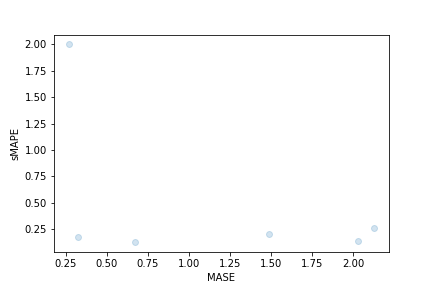
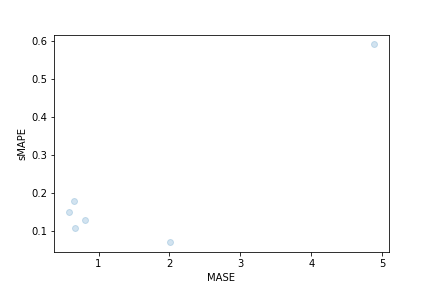
Preprocessing all variables

diff --git a/TFG_Code/src/T1_Load_Dataset.py b/TFG_Code/src/T1_Load_Dataset.py
@@ -31,15 +31,6 @@ def load_and_preprocess_dataset(freq, prediction_length):
     train_dataset.set_transform(partial(transform_start_field, freq=freq))
     test_dataset.set_transform(partial(transform_start_field, freq=freq))
 
-    # Show data
-    figure, axes = plt.subplots()
-    axes.plot(
-        test_dataset[0]["target"][-len((train_dataset[0]["target"]))-prediction_length:],
-        color="red",
-        linewidth=0.9
-    )
-    axes.plot(train_dataset[0]["target"], color="blue")
-
     # Convert the dataset into a multivariate time series
     num_of_variates = len(train_dataset)
 
@@ -70,55 +61,45 @@ def load_my_own_dataset(prediction_length):
     # Read the CSV file
     df = pd.read_csv(file_path, sep=";")
 
-    # Selección de variables relevantes
-    data = df[['datetime', 'luminosidad', 'temperatura',
-               'humedad_rel', 'temp_suelo', 'electrocond', 'var_diam']]
-
-    # Selección de variables relevantes
+    # Relevant variables selection
     data = df[['luminosidad', 'temperatura',
                'humedad_rel', 'temp_suelo', 'electrocond', 'var_diam']]
 
-    def reemplazar_valores_incorrectos(serie):
+    def replace_incorrect_values(serie, lim):
         for i in range(1, len(serie) - 1):
-            if serie[i] < 100:
+            if serie[i] < lim:
                 serie[i] = serie[i - 1]
         return serie
 
     # Aplicar la función a la columna 'var_diam'
-    data['var_diam'] = reemplazar_valores_incorrectos(data['var_diam'])
+    data['var_diam'] = replace_incorrect_values(data['var_diam'], 100)
+    data['temp_suelo'] = replace_incorrect_values(data['var_diam'], 0.6)
 
-    date_var = df[['date']]
+    # %%
+    # Data preprocessing
 
-    # Preprocesados de los datos
-    datos = data[['var_diam']]
-    ventana = 100  # Tamaño de la ventana de la media móvil
-    # Eliminamos la pendiente de nuestros datos
-    datos_sin = datos['var_diam']-datos['var_diam'].rolling(window=ventana).mean()
-    # Eliminamos los valores NaN
-    datos_sin_pendiente = datos_sin.dropna()
-    # Suavizamos la señal
-    datos_suavizados = savgol_filter(datos_sin_pendiente, 11, 2)
-    df = df[99:]
-    df['var_diam_sua_py'] = pd.Series(datos_suavizados, index=df.index)
+    # Remove trend from our data
+    for col in data.columns:
+        if col != 'var_diam':
+            data[col] = data[col] - data[col].rolling(window=100).mean()
 
-    # Selección de variables relevantes
-    data = df[['datetime', 'luminosidad', 'temperatura',
-               'humedad_rel', 'temp_suelo', 'electrocond', 'var_diam_sua_py']]
+    # Remove NaN values
+    data = data.dropna()
 
-    # Transformación de la variable 'date' en un objeto datetime
-    data['datetime'] = pd.to_datetime(data['datetime'])
-    date = data['datetime']
-    # Establecimiento de la variable 'date' como índice
-    data.set_index('datetime', inplace=True)
-    date_var = df[['date']]
+    # Smooth the signal
+    for col in data.columns:
+        if col != 'var_diam':
+            data[col] = savgol_filter(data[col], 11, 2)
 
-    # Normalización de los datos
-
+    # %%
+    # Data normalization
     scaler = MinMaxScaler()
     scaled_data = scaler.fit_transform(data)
     data[['luminosidad', 'temperatura',
-          'humedad_rel', 'temp_suelo', 'electrocond', 'var_diam_sua_py']] = scaled_data
-    # Relevant Variable Selection
+          'humedad_rel', 'temp_suelo', 'electrocond', 'var_diam']] = scaled_data
+
+    # %%
+    # Data split
     data_validation = data
     data_test = data.iloc[:-prediction_length]
     data_train = data.iloc[:-2*prediction_length]
@@ -155,5 +136,31 @@ def load_my_own_dataset(prediction_length):
     dataset_validation = Dataset.from_pandas(dataframe_validation)
     dataset_test = Dataset.from_pandas(dataframe_test)
     dataset_train = Dataset.from_pandas(dataframe_train)
+
+    # %% SHOWING DATA
+
+    test_dataset = dataset_test
+    train_dataset = dataset_train
+
+    # Show data
+    for var in range(6):
+
+        figure, axes = plt.subplots(figsize=(12, 6))
+        ejex = list(range(len(test_dataset[var]["target"])))
+        plt.setp(axes.get_xticklabels(), rotation=30, horizontalalignment='right')
+        axes.plot(ejex[-prediction_length:], test_dataset[var]
+                  ["target"][-prediction_length:], color="red")
+        axes.plot(train_dataset[var]["target"], color="blue")
+        axes.set_title(data.columns[var])  # Set title for main data plo
+
+        # ZOOM
+        # Show last values
+        figure, axes = plt.subplots()
+        ejex = list(range(len(test_dataset[var]["target"])))
+        axes.plot(ejex[-prediction_length:], test_dataset[var]
+                  ["target"][-prediction_length:], color="red")
+        axes.plot(ejex[-3*prediction_length:-prediction_length], train_dataset[var]
+                  ["target"][-2*prediction_length:], color="blue")
+        axes.set_title(data.columns[var])
 
     return dataset_validation, dataset_test, dataset_train

diff --git a/TFG_Code/Create_2023_dataset/Creating_my_dataset_2023.py b/TFG_Code/Create_2023_dataset/Creating_my_dataset_2023.py
@@ -20,47 +20,47 @@ file_path = os.path.join(current_path, file_name)
 # Read the CSV file
 df = pd.read_csv(file_path, sep=";")
 
-
-# Selección de variables relevantes
+# Relevant variables selection
 data = df[['luminosidad', 'temperatura',
            'humedad_rel', 'temp_suelo', 'electrocond', 'var_diam']]
 
 
-def reemplazar_valores_incorrectos(serie):
+def replace_incorrect_values(serie, lim):
     for i in range(1, len(serie) - 1):
-        if serie[i] < 100:
+        if serie[i] < lim:
             serie[i] = serie[i - 1]
     return serie
 
 
 # Aplicar la función a la columna 'var_diam'
-data['var_diam'] = reemplazar_valores_incorrectos(data['var_diam'])
+data['var_diam'] = replace_incorrect_values(data['var_diam'], 100)
+data['temp_suelo'] = replace_incorrect_values(data['var_diam'], 0.6)
 
 # %%
-# Preprocesados de los datos
-datos = data[['var_diam']]
-ventana = 100  # Tamaño de la ventana de la media móvil
-# Eliminamos la pendiente de nuestros datos
-datos_sin = datos['var_diam']-datos['var_diam'].rolling(window=ventana).mean()
-# Eliminamos los valores NaN
-datos_sin_pendiente = datos_sin.dropna()
-# Suavizamos la señal
-datos_suavizados = savgol_filter(datos_sin_pendiente, 11, 2)
-df = df[99:]
-df['var_diam_sua_py'] = pd.Series(datos_suavizados, index=df.index)
+# Data preprocessing
 
-# Selección de variables relevantes
-data = df[['luminosidad', 'temperatura',
-           'humedad_rel', 'temp_suelo', 'electrocond', 'var_diam_sua_py']]
+# Remove trend from our data
+for col in data.columns:
+    if col != 'var_diam':
+        data[col] = data[col] - data[col].rolling(window=100).mean()
+
+# Remove NaN values
+data = data.dropna()
+
+# Smooth the signal
+for col in data.columns:
+    if col != 'var_diam':
+        data[col] = savgol_filter(data[col], 11, 2)
 
 # %%
-# Normalización de los datos
+# Data normalization
 scaler = MinMaxScaler()
 scaled_data = scaler.fit_transform(data)
 data[['luminosidad', 'temperatura',
-      'humedad_rel', 'temp_suelo', 'electrocond', 'var_diam_sua_py']] = scaled_data
+      'humedad_rel', 'temp_suelo', 'electrocond', 'var_diam']] = scaled_data
 
-# Relevant Variable Selection
+# %%
+# Data split
 data_validation = data
 data_test = data.iloc[:-prediction_length]
 data_train = data.iloc[:-2*prediction_length]
@@ -103,35 +103,24 @@ dataset_train = Dataset.from_pandas(dataframe_train)
 
 test_dataset = dataset_test
 train_dataset = dataset_train
-# for var in range(6):
-var = 5
+
 # Show data
-figure, axes = plt.subplots()
-ejex = list(range(len(test_dataset[var]["target"])))
-axes.plot(ejex[-prediction_length:], test_dataset[var]
-          ["target"][-prediction_length:], color="red")
-axes.plot(train_dataset[var]["target"], color="blue")
+for var in range(6):
 
-# ZOOM
+    figure, axes = plt.subplots(figsize=(12, 6))
+    ejex = list(range(len(test_dataset[var]["target"])))
+    plt.setp(axes.get_xticklabels(), rotation=30, horizontalalignment='right')
+    axes.plot(ejex[-prediction_length:], test_dataset[var]
+              ["target"][-prediction_length:], color="red")
+    axes.plot(train_dataset[var]["target"], color="blue")
+    axes.set_title(data.columns[var])  # Set title for main data plo
 
-# Show last values
-figure, axes = plt.subplots()
-ejex = list(range(len(test_dataset[var]["target"])))
-# axes.plot(ejex[-prediction_length:], test_dataset[var]
-#           ["target"][-prediction_length:], color="red")
-# axes.plot(ejex[-3*prediction_length:-prediction_length], train_dataset[var]
-#           ["target"][-2*prediction_length:], color="blue")
-
-axes.plot(ejex[:prediction_length], train_dataset[var]
-          ["target"][:prediction_length:], color="blue")
-
-
-# %%
-
-figure, ax = plt.subplots(figsize=(12, 6))  # Ancho de 12 pulgadas y alto de 6 pulgadas
-vector = data1[['var_diam']]  # Corregido: quita los corchetes adicionales
-plt.ylim(129, 132)
-# Corregido: utiliza comillas simples para el nombre de la columna
-ax.set_title("df['var_diam']")
-plt.setp(ax.get_xticklabels(), rotation=30, horizontalalignment='right')
-ax.plot(vector, color="blue")
+    # ZOOM
+    # Show last values
+    figure, axes = plt.subplots()
+    ejex = list(range(len(test_dataset[var]["target"])))
+    axes.plot(ejex[-prediction_length:], test_dataset[var]
+              ["target"][-prediction_length:], color="red")
+    axes.plot(ejex[-3*prediction_length:-prediction_length], train_dataset[var]
+              ["target"][-2*prediction_length:], color="blue")
+    axes.set_title(data.columns[var])

diff --git a/TFG_Code/src/main.py b/TFG_Code/src/main.py
@@ -10,7 +10,7 @@ from T5_Evaluate_Model import forecasting, see_metrics, plot
 # %% DEFINE VARIABLES
 
 # Choose between "Transformer", "Informer", "Autoformer"
-model_variant = "Informer"
+model_variant = "Transformer"
 
 freq = "8min"
 prediction_length = 200
